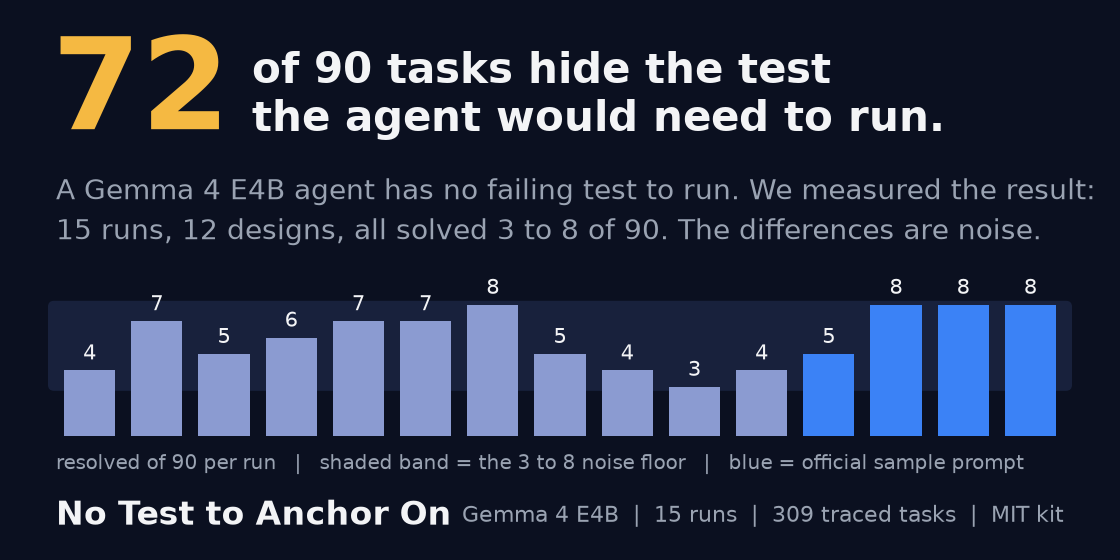
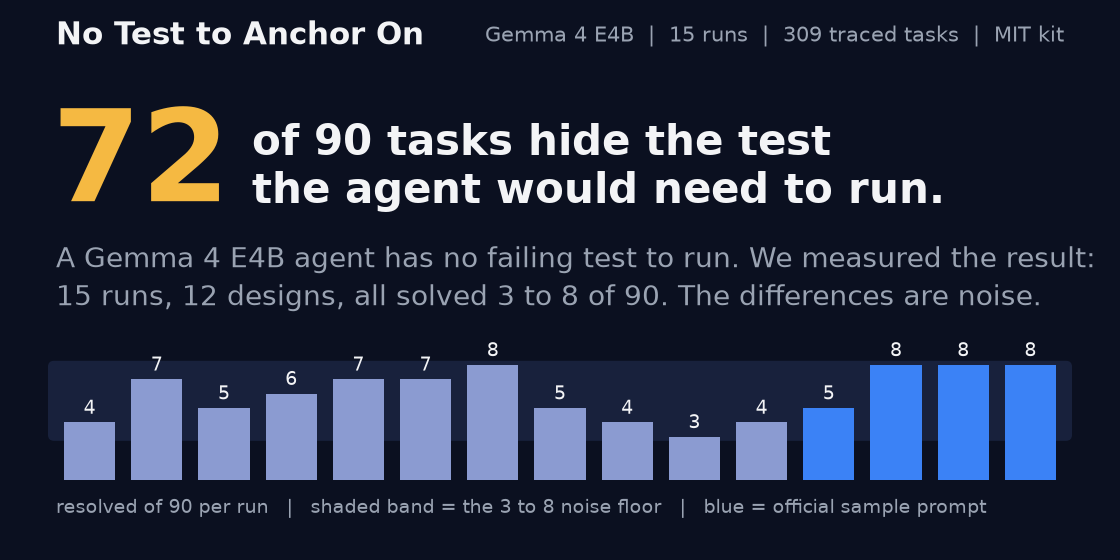
card: layout

diff --git a/scripts/make_card.py b/scripts/make_card.py
@@ -20,25 +20,25 @@ fig = plt.figure(figsize=(5.6, 2.8), dpi=200)
 fig.patch.set_facecolor(BG)
 ax = fig.add_axes([0, 0, 1, 1]); ax.set_xlim(0, 560); ax.set_ylim(0, 280); ax.axis("off")
 
-ax.text(26, 232, "72", fontsize=46, fontweight="bold", color=ACC, ha="left", va="center", family="DejaVu Sans")
-ax.text(126, 244, "of 90 tasks hide the test", fontsize=15, color=FG, ha="left", va="center", fontweight="bold")
-ax.text(126, 220, "the agent would need to run.", fontsize=15, color=FG, ha="left", va="center", fontweight="bold")
-ax.text(28, 184, "A Gemma 4 E4B agent has no failing test to run. We measured the result:", fontsize=10, color=DIM, ha="left", va="center")
-ax.text(28, 164, "15 runs, 12 designs, all solved 3 to 8 of 90. The differences are noise.", fontsize=10, color=DIM, ha="left", va="center")
+ax.text(28, 262, "No Test to Anchor On", fontsize=11, fontweight="bold", color=FG, ha="left", va="center")
+ax.text(532, 262, "Gemma 4 E4B  |  15 runs  |  309 traced tasks  |  MIT kit", fontsize=7.5, color=DIM, ha="right", va="center")
+
+ax.text(26, 196, "72", fontsize=46, fontweight="bold", color=ACC, ha="left", va="center", family="DejaVu Sans")
+ax.text(126, 208, "of 90 tasks hide the test", fontsize=15, color=FG, ha="left", va="center", fontweight="bold")
+ax.text(126, 184, "the agent would need to run.", fontsize=15, color=FG, ha="left", va="center", fontweight="bold")
+ax.text(28, 150, "A Gemma 4 E4B agent has no failing test to run. We measured the result:", fontsize=10, color=DIM, ha="left", va="center")
+ax.text(28, 131, "15 runs, 12 designs, all solved 3 to 8 of 90. The differences are noise.", fontsize=10, color=DIM, ha="left", va="center")
 
 # strip of 15 runs
-x0, x1, y0 = 28, 532, 62
+x0, x1, y0, k = 28, 532, 40, 7.2
 w = (x1 - x0) / len(solved)
-ax.add_patch(FancyBboxPatch((x0 - 4, y0 + 3 * 8.2 - 2), x1 - x0 + 8, 5 * 8.2 + 4, boxstyle="round,pad=0,rounding_size=3",
+ax.add_patch(FancyBboxPatch((x0 - 4, y0 + 3 * k - 2), x1 - x0 + 8, 5 * k + 4, boxstyle="round,pad=0,rounding_size=3",
                             fc="#1a2440", ec="none", alpha=0.9, zorder=1))
 for i, s in enumerate(solved):
     col = ACC2 if RUNS[i].startswith("s") else "#8b9bd1"
-    ax.add_patch(plt.Rectangle((x0 + i * w + 4, y0), w - 8, s * 8.2, fc=col, ec="none", zorder=2))
-    ax.text(x0 + i * w + w / 2, y0 + s * 8.2 + 3, str(s), fontsize=7.5, color=FG, ha="center", va="bottom", zorder=3)
-ax.text(x0, y0 - 14, "resolved of 90 per run   |   shaded band = the 3 to 8 noise floor   |   blue = official sample prompt", fontsize=7.2, color=DIM, ha="left", va="center")
-
-ax.text(28, 22, "No Test to Anchor On", fontsize=12, fontweight="bold", color=FG, ha="left", va="center")
-ax.text(532, 22, "Gemma 4 E4B  |  15 runs  |  309 traced tasks  |  MIT kit", fontsize=8, color=DIM, ha="right", va="center")
+    ax.add_patch(plt.Rectangle((x0 + i * w + 4, y0), w - 8, s * k, fc=col, ec="none", zorder=2))
+    ax.text(x0 + i * w + w / 2, y0 + s * k + 2, str(s), fontsize=7, color=FG, ha="center", va="bottom", zorder=3)
+ax.text(x0, y0 - 14, "resolved of 90 per run   |   shaded band = the 3 to 8 noise floor   |   blue = official sample prompt", fontsize=7, color=DIM, ha="left", va="center")
 
 out = Path("assets/card.png"); out.parent.mkdir(exist_ok=True)
 fig.savefig(out, dpi=200, facecolor=BG)
